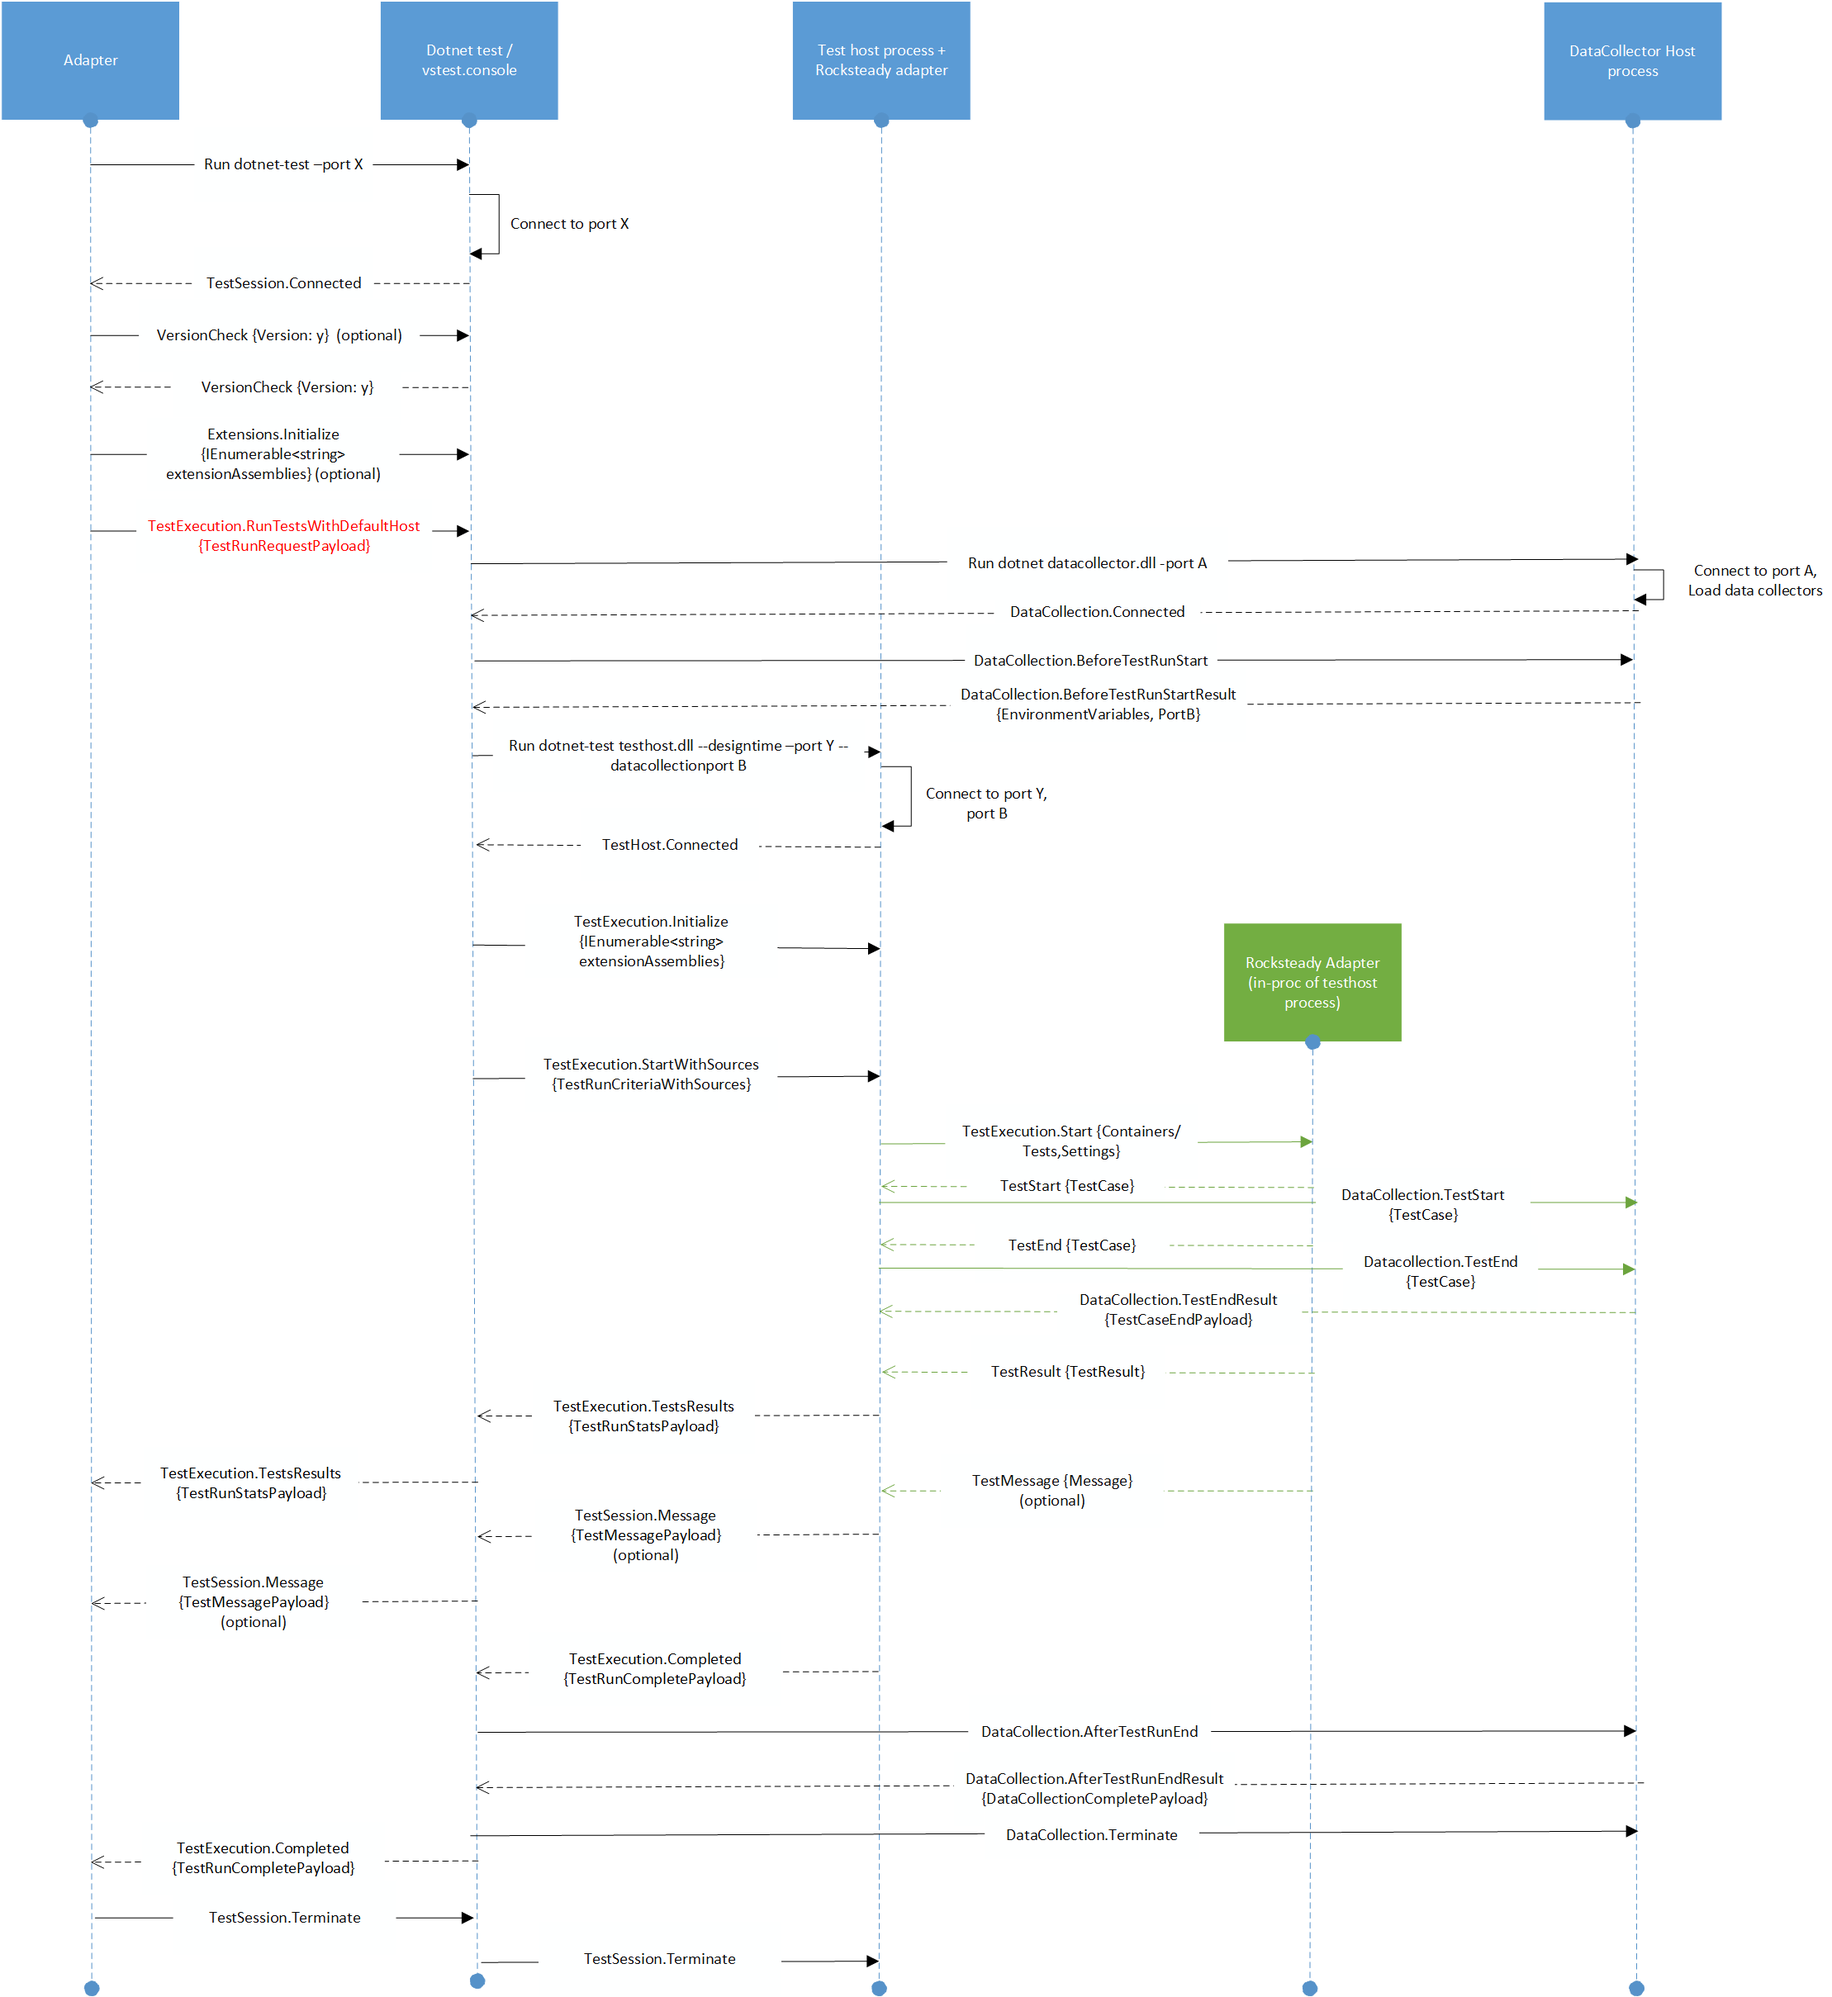
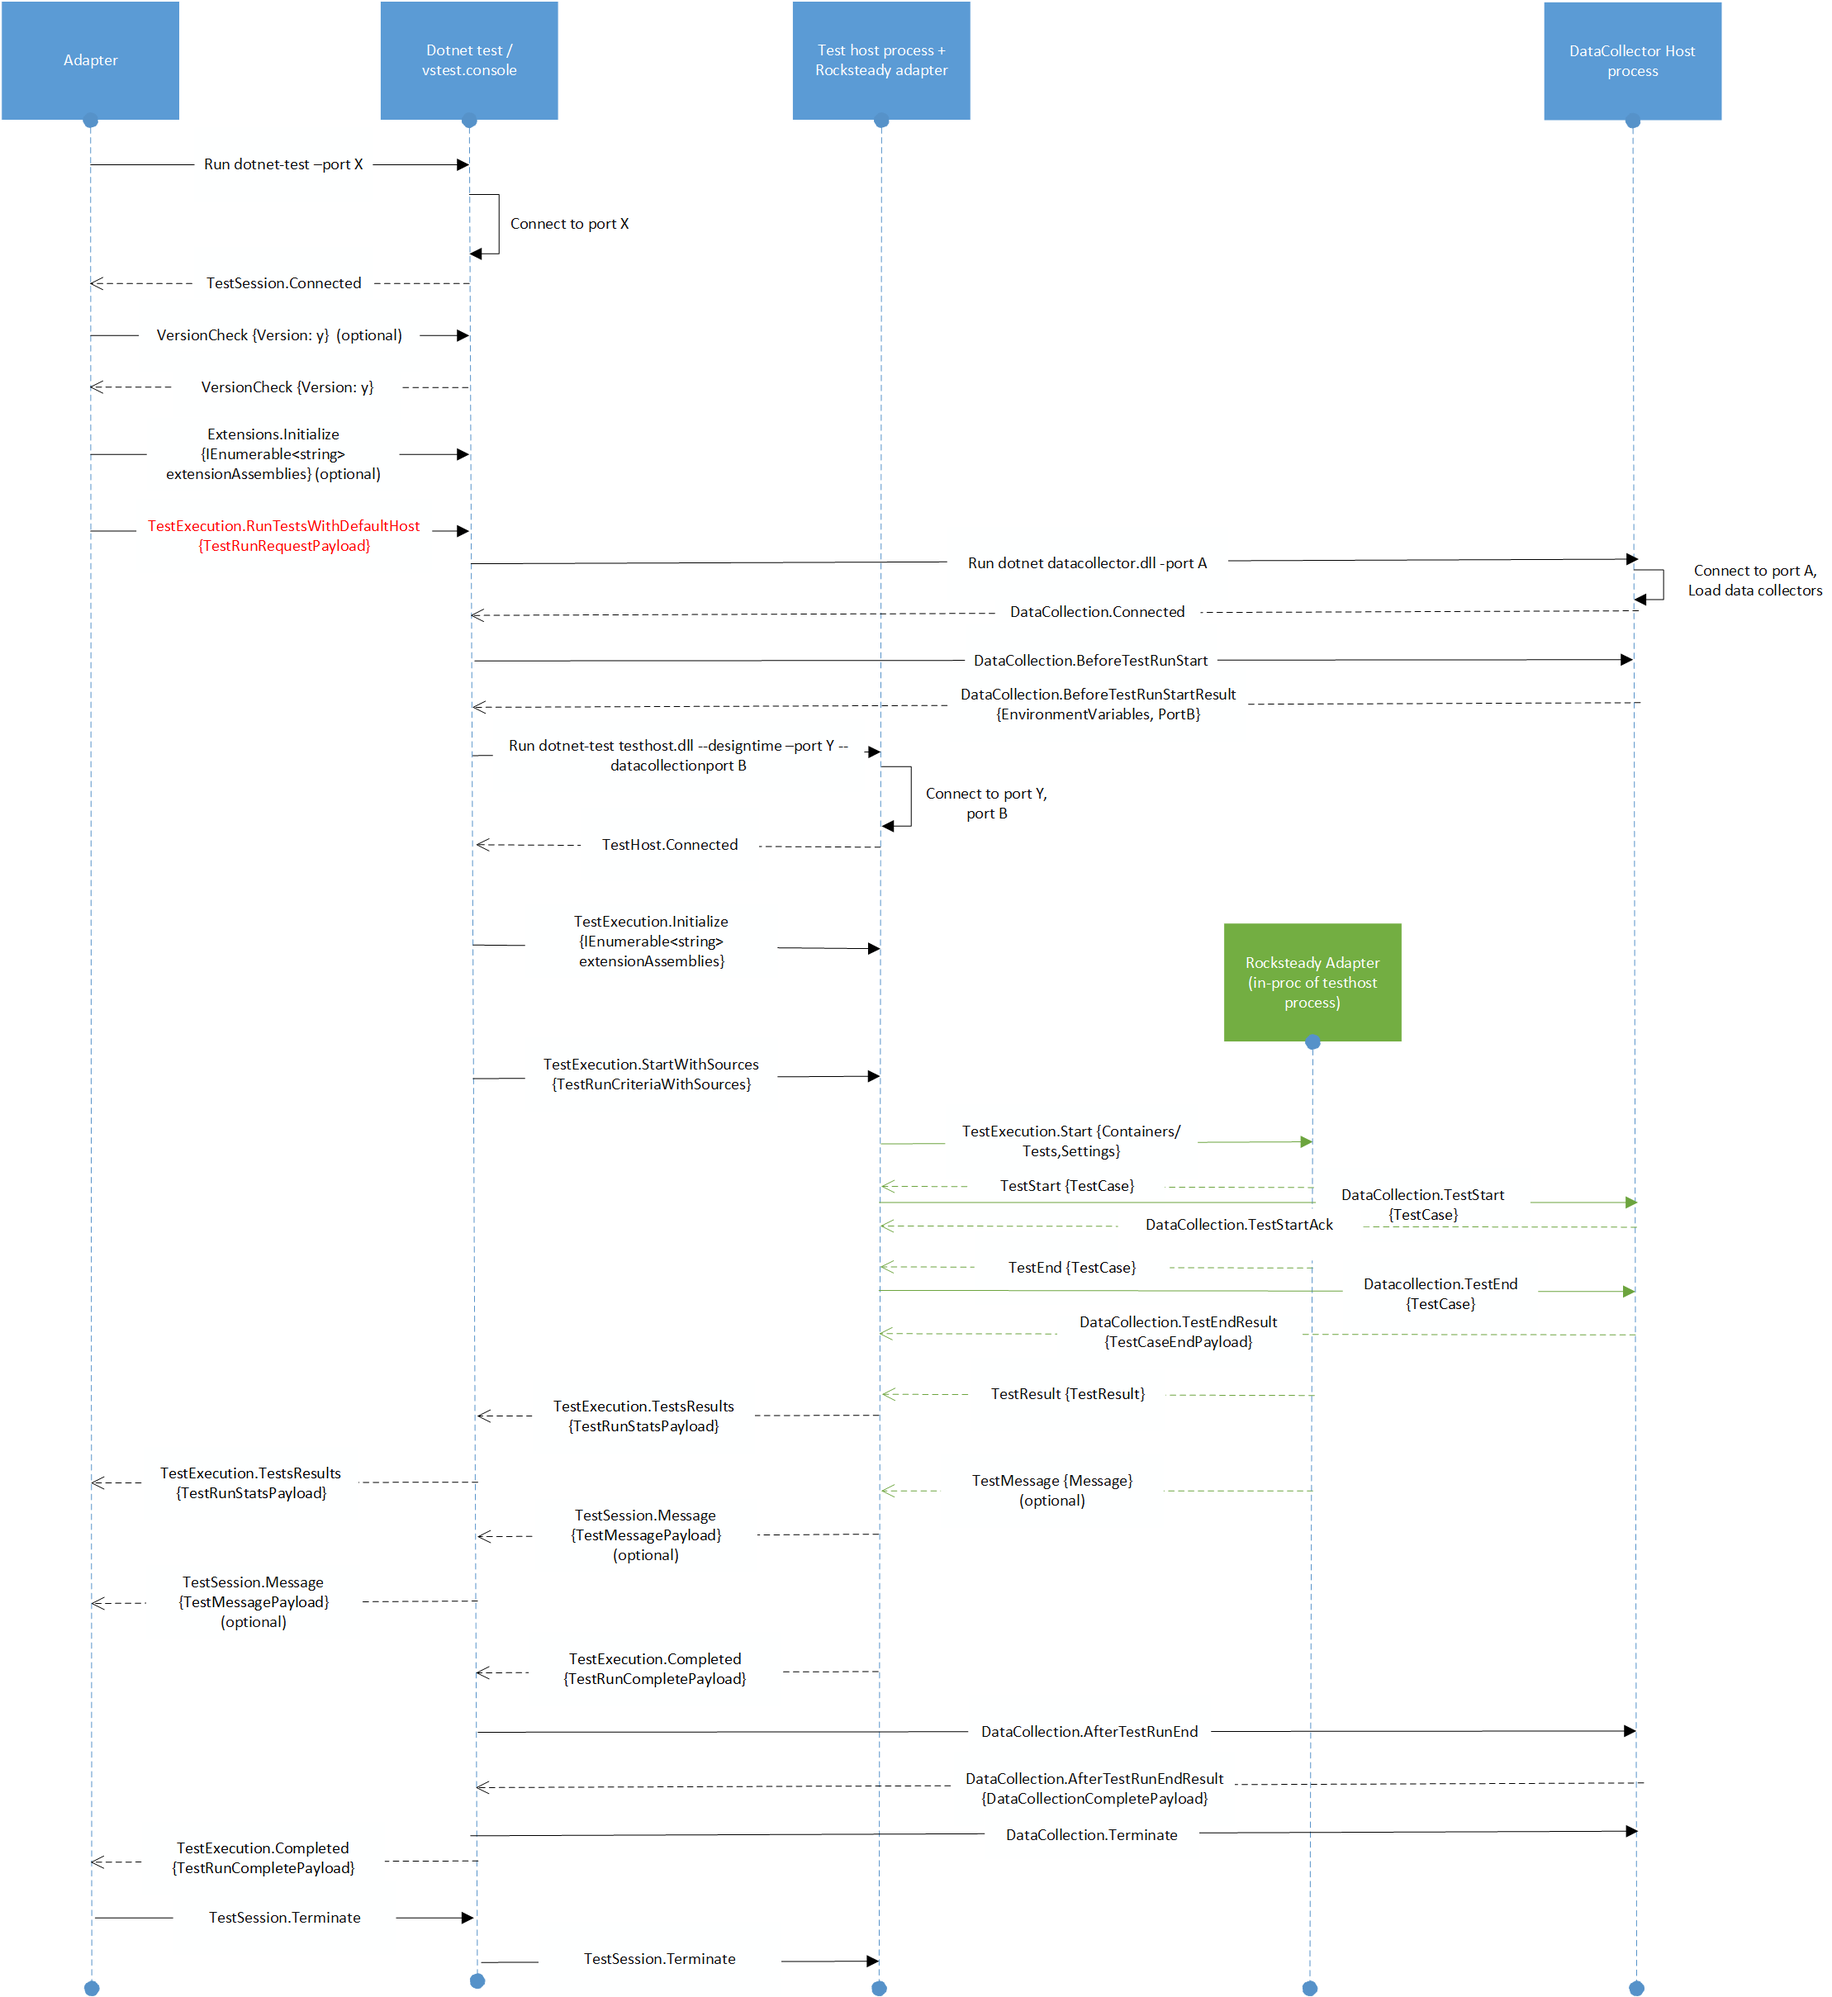
Updated DC Protocol, added DataCollection.TestStartAck (#84)
* Updated DC Protocol, added DataCollection.TestStartAck

* Added text for Test Case Start Acknowledgement.

* Updated image.

Changed region(s): [[0.56, 0.6203, 0.6844, 0.7134], [0.7466, 0.6203, 0.8399, 0.6514]]

diff --git a/RFCs/0006-DataCollection-Protocol.md b/RFCs/0006-DataCollection-Protocol.md
@@ -33,6 +33,7 @@ And this is how the wire protocol looks like with custom host:
 5. dotnet-test spawns of test execution host process with environment variables and passes port B.
 6. Test execution host process then connects to port B.
 7. Test execution host process send events : TestCaseStart and TestCaseEnd, on receiving them from Rocksteady adapter for every testcase.
+8. On receiving TestCaseStart, datacollector host process responds by sending acknowledgement for TestCaseStart event.
 8. On receiving TestCaseEnd, datacollector host process responds by sending attachments, if any, as generated by datacollectors.
 9. On completion of test execution, test-host sends DataCollection.AfterTestRunEnd.
 10. Datacollector host process returns the attachments, if any, as generated by datacollectors. 
